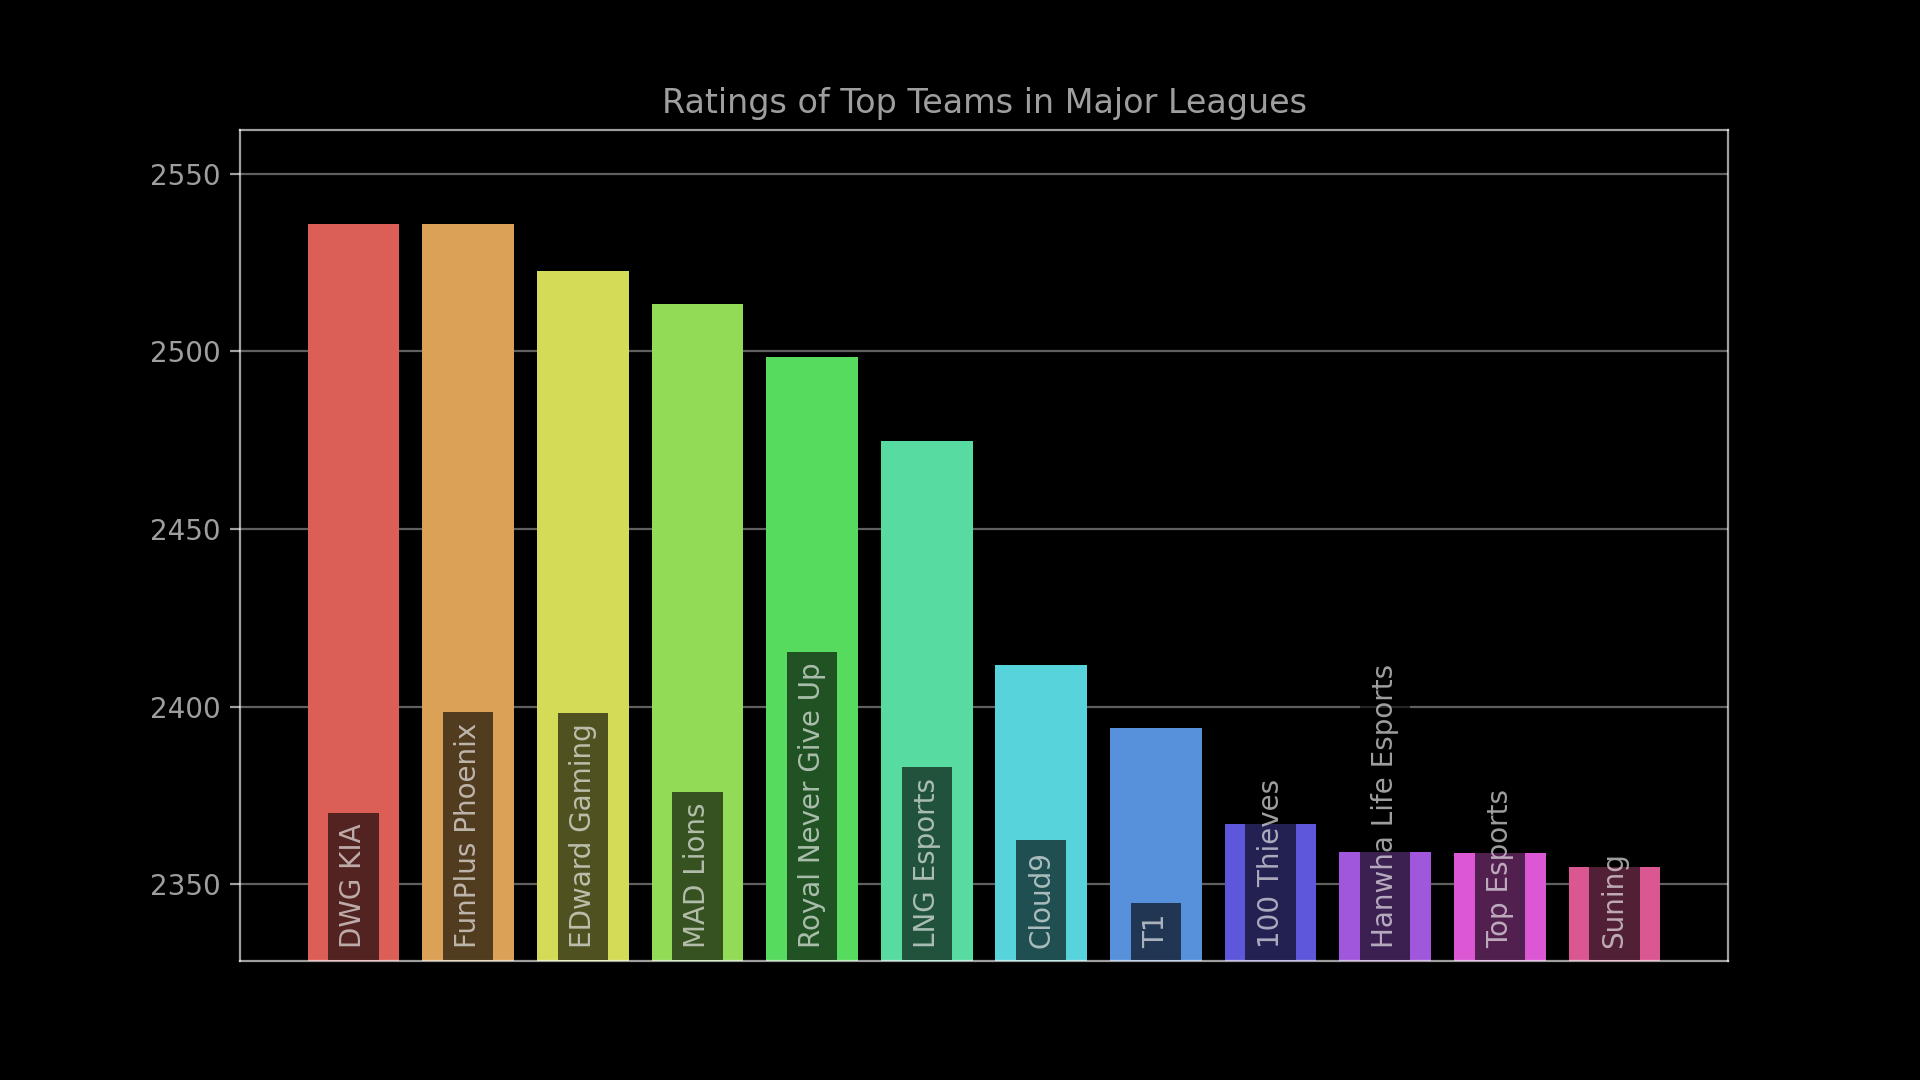
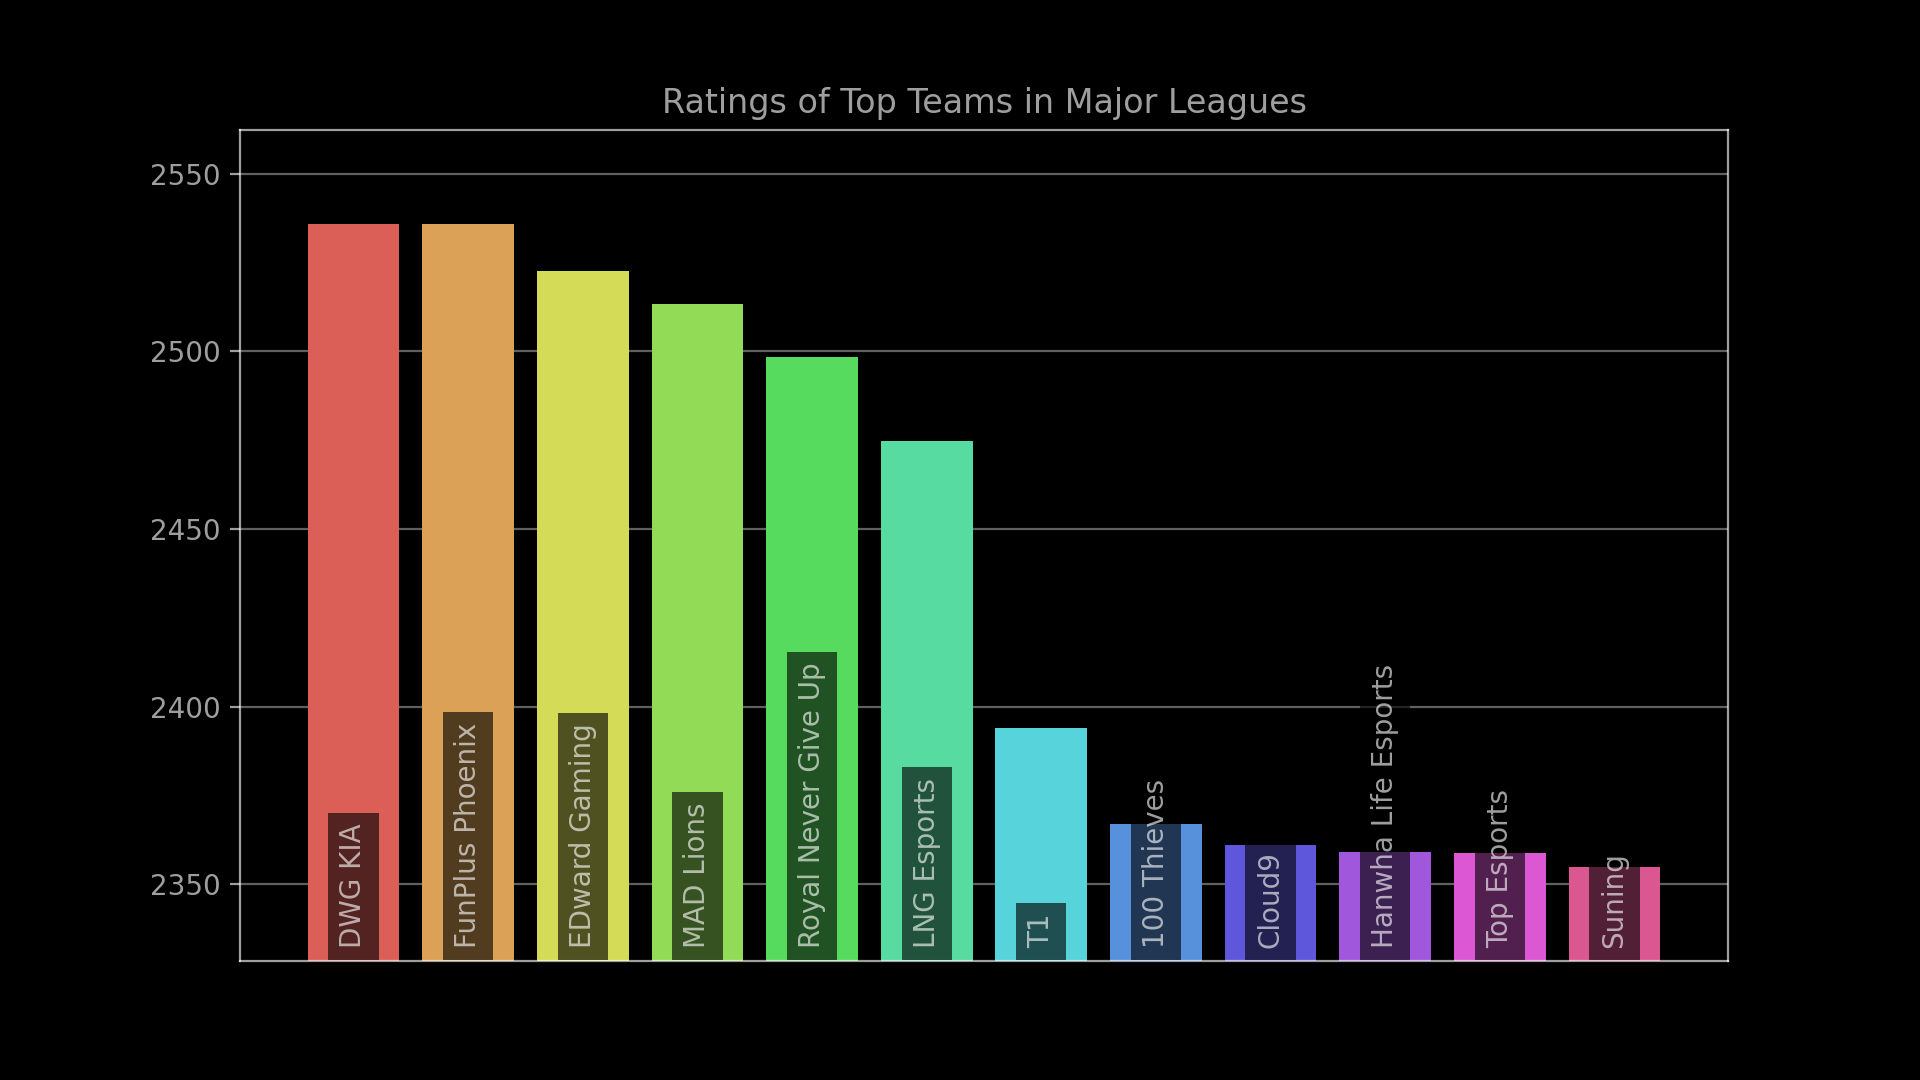
Update rating charts for 2021-10-07 15:00:00.

Changed region(s): [[0.5, 0.6111, 0.6875, 0.8861]]

diff --git a/index.html b/index.html
@@ -83,9 +83,9 @@
             <tr><td style="text-align: right">5</td><td class="name">PSG Talon</td><td class="league" style="text-align: center">PCS</td><td class="rating" style="text-align: center">2503.3</td><td class="diff" style="text-align: center; white-space: nowrap"></td></tr>
             <tr><td style="text-align: right">6</td><td class="name">Royal Never Give Up</td><td class="league" style="text-align: center">LPL</td><td class="rating" style="text-align: center">2498.4</td><td class="diff" style="text-align: center; white-space: nowrap"></td></tr>
             <tr><td style="text-align: right">7</td><td class="name">LNG Esports</td><td class="league" style="text-align: center">LPL</td><td class="rating" style="text-align: center">2474.7</td><td class="diff" style="text-align: center; white-space: nowrap"><span style="color: #4CAF50">&plus;46.9</span></td></tr>
-            <tr><td style="text-align: right">8</td><td class="name">Cloud9</td><td class="league" style="text-align: center">LCS</td><td class="rating" style="text-align: center">2411.7</td><td class="diff" style="text-align: center; white-space: nowrap"><span style="color: #4CAF50">&plus;76.5</span></td></tr>
-            <tr><td style="text-align: right">9</td><td class="name">T1</td><td class="league" style="text-align: center">LCK</td><td class="rating" style="text-align: center">2394.1</td><td class="diff" style="text-align: center; white-space: nowrap"></td></tr>
-            <tr><td style="text-align: right">10</td><td class="name">100 Thieves</td><td class="league" style="text-align: center">LCS</td><td class="rating" style="text-align: center">2367.1</td><td class="diff" style="text-align: center; white-space: nowrap"></td></tr>
+            <tr><td style="text-align: right">8</td><td class="name">T1</td><td class="league" style="text-align: center">LCK</td><td class="rating" style="text-align: center">2394.1</td><td class="diff" style="text-align: center; white-space: nowrap"></td></tr>
+            <tr><td style="text-align: right">9</td><td class="name">100 Thieves</td><td class="league" style="text-align: center">LCS</td><td class="rating" style="text-align: center">2367.1</td><td class="diff" style="text-align: center; white-space: nowrap"></td></tr>
+            <tr><td style="text-align: right">10</td><td class="name">Cloud9</td><td class="league" style="text-align: center">LCS</td><td class="rating" style="text-align: center">2361.2</td><td class="diff" style="text-align: center; white-space: nowrap"><span style="color: #4CAF50">&plus;26.1</span></td></tr>
             <tr><td style="text-align: right">11</td><td class="name">Hanwha Life Esports</td><td class="league" style="text-align: center">LCK</td><td class="rating" style="text-align: center">2359.1</td><td class="diff" style="text-align: center; white-space: nowrap"><span style="color: #4CAF50">&plus;43.8</span></td></tr>
             <tr><td style="text-align: right">12</td><td class="name">Top Esports</td><td class="league" style="text-align: center">LPL</td><td class="rating" style="text-align: center">2358.8</td><td class="diff" style="text-align: center; white-space: nowrap"></td></tr>
             <tr><td style="text-align: right">13</td><td class="name">Suning</td><td class="league" style="text-align: center">LPL</td><td class="rating" style="text-align: center">2354.8</td><td class="diff" style="text-align: center; white-space: nowrap"></td></tr>
@@ -110,14 +110,14 @@
             <tr><td style="text-align: right">32</td><td class="name">JD Gaming</td><td class="league" style="text-align: center">LPL</td><td class="rating" style="text-align: center">2247.3</td><td class="diff" style="text-align: center; white-space: nowrap"></td></tr>
             <tr><td style="text-align: right">33</td><td class="name">KT Rolster</td><td class="league" style="text-align: center">LCK</td><td class="rating" style="text-align: center">2247.1</td><td class="diff" style="text-align: center; white-space: nowrap"></td></tr>
             <tr><td style="text-align: right">34</td><td class="name">PEACE </td><td class="league" style="text-align: center">LCO</td><td class="rating" style="text-align: center">2246.9</td><td class="diff" style="text-align: center; white-space: nowrap"><span style="color: #4CAF50">&plus;9.4</span></td></tr>
-            <tr><td style="text-align: right">35</td><td class="name">Oh My God</td><td class="league" style="text-align: center">LPL</td><td class="rating" style="text-align: center">2224.9</td><td class="diff" style="text-align: center; white-space: nowrap"></td></tr>
-            <tr><td style="text-align: right">36</td><td class="name">Pentanet.GG</td><td class="league" style="text-align: center">LCO</td><td class="rating" style="text-align: center">2224.4</td><td class="diff" style="text-align: center; white-space: nowrap"></td></tr>
-            <tr><td style="text-align: right">37</td><td class="name">Invictus Gaming</td><td class="league" style="text-align: center">LPL</td><td class="rating" style="text-align: center">2213.1</td><td class="diff" style="text-align: center; white-space: nowrap"></td></tr>
-            <tr><td style="text-align: right">38</td><td class="name">Fredit BRION</td><td class="league" style="text-align: center">LCK</td><td class="rating" style="text-align: center">2212.9</td><td class="diff" style="text-align: center; white-space: nowrap"></td></tr>
-            <tr><td style="text-align: right">39</td><td class="name">LGD Gaming</td><td class="league" style="text-align: center">LPL</td><td class="rating" style="text-align: center">2200.2</td><td class="diff" style="text-align: center; white-space: nowrap"></td></tr>
-            <tr><td style="text-align: right">40</td><td class="name">Rogue Warriors</td><td class="league" style="text-align: center">LPL</td><td class="rating" style="text-align: center">2192.4</td><td class="diff" style="text-align: center; white-space: nowrap"></td></tr>
-            <tr><td style="text-align: right">41</td><td class="name">One Breath Gaming</td><td class="league" style="text-align: center">LCL</td><td class="rating" style="text-align: center">2191.8</td><td class="diff" style="text-align: center; white-space: nowrap"></td></tr>
-            <tr><td style="text-align: right">42</td><td class="name">Unicorns Of Love.CIS</td><td class="league" style="text-align: center">LCL</td><td class="rating" style="text-align: center">2191.8</td><td class="diff" style="text-align: center; white-space: nowrap"><span style="color: #F44336">&minus;83.2</span></td></tr>
+            <tr><td style="text-align: right">35</td><td class="name">Unicorns Of Love.CIS</td><td class="league" style="text-align: center">LCL</td><td class="rating" style="text-align: center">2244.2</td><td class="diff" style="text-align: center; white-space: nowrap"><span style="color: #F44336">&minus;30.8</span></td></tr>
+            <tr><td style="text-align: right">36</td><td class="name">Oh My God</td><td class="league" style="text-align: center">LPL</td><td class="rating" style="text-align: center">2224.9</td><td class="diff" style="text-align: center; white-space: nowrap"></td></tr>
+            <tr><td style="text-align: right">37</td><td class="name">Pentanet.GG</td><td class="league" style="text-align: center">LCO</td><td class="rating" style="text-align: center">2224.4</td><td class="diff" style="text-align: center; white-space: nowrap"></td></tr>
+            <tr><td style="text-align: right">38</td><td class="name">Invictus Gaming</td><td class="league" style="text-align: center">LPL</td><td class="rating" style="text-align: center">2213.1</td><td class="diff" style="text-align: center; white-space: nowrap"></td></tr>
+            <tr><td style="text-align: right">39</td><td class="name">Fredit BRION</td><td class="league" style="text-align: center">LCK</td><td class="rating" style="text-align: center">2212.9</td><td class="diff" style="text-align: center; white-space: nowrap"></td></tr>
+            <tr><td style="text-align: right">40</td><td class="name">LGD Gaming</td><td class="league" style="text-align: center">LPL</td><td class="rating" style="text-align: center">2200.2</td><td class="diff" style="text-align: center; white-space: nowrap"></td></tr>
+            <tr><td style="text-align: right">41</td><td class="name">Rogue Warriors</td><td class="league" style="text-align: center">LPL</td><td class="rating" style="text-align: center">2192.4</td><td class="diff" style="text-align: center; white-space: nowrap"></td></tr>
+            <tr><td style="text-align: right">42</td><td class="name">One Breath Gaming</td><td class="league" style="text-align: center">LCL</td><td class="rating" style="text-align: center">2191.8</td><td class="diff" style="text-align: center; white-space: nowrap"></td></tr>
             <tr><td style="text-align: right">43</td><td class="name">Immortals</td><td class="league" style="text-align: center">LCS</td><td class="rating" style="text-align: center">2185.8</td><td class="diff" style="text-align: center; white-space: nowrap"></td></tr>
             <tr><td style="text-align: right">44</td><td class="name">Team Vitality</td><td class="league" style="text-align: center">LEC</td><td class="rating" style="text-align: center">2170.4</td><td class="diff" style="text-align: center; white-space: nowrap"></td></tr>
             <tr><td style="text-align: right">45</td><td class="name">paiN Gaming</td><td class="league" style="text-align: center">CBLOL</td><td class="rating" style="text-align: center">2157.6</td><td class="diff" style="text-align: center; white-space: nowrap"></td></tr>

diff --git a/assets/js/chart-config.js b/assets/js/chart-config.js
@@ -3,10 +3,10 @@ const MONTH_ABBREVIATIONS = ["Jan", "Feb", "Mar", "Apr", "May", "Jun", "Jul", "A
 const topChartConfig = {
     type: "bar",
     data: {
-        labels: ['DWG KIA', 'FunPlus Phoenix', 'EDward Gaming', 'MAD Lions', 'Royal Never Give Up', 'LNG Esports', 'Cloud9', 'T1', '100 Thieves', 'Hanwha Life Esports', 'Top Esports', 'Suning'],
+        labels: ['DWG KIA', 'FunPlus Phoenix', 'EDward Gaming', 'MAD Lions', 'Royal Never Give Up', 'LNG Esports', 'T1', '100 Thieves', 'Cloud9', 'Hanwha Life Esports', 'Top Esports', 'Suning'],
         datasets: [{
             backgroundColor: ['#dc5f57', '#dca157', '#d4dc57', '#91dc57', '#57dc5f', '#57dca1', '#57d4dc', '#5791dc', '#5f57dc', '#a157dc', '#dc57d4', '#dc5791'],
-            data: [2535.913091706714, 2535.666297660901, 2522.634474588147, 2513.3692126537712, 2498.3555569730647, 2474.6783422093486, 2411.658439674858, 2394.075777242202, 2367.1068217865895, 2359.1074321443766, 2358.8275642289427, 2354.8123246379455],
+            data: [2535.913091706714, 2535.666297660901, 2522.634474588147, 2513.3692126537712, 2498.3555569730647, 2474.6783422093486, 2394.075777242202, 2367.1068217865895, 2361.1711730637517, 2359.1074321443766, 2358.8275642289427, 2354.8123246379455],
             label: "Rating Points"
         }]
     },

diff --git a/README.md b/README.md
@@ -51,9 +51,9 @@ confidence interval of the rating.
 | 4 | MAD Lions | 2513.4 | 78.1 |
 | 5 | Royal Never Give Up | 2498.4 | 78.8 |
 | 6 | LNG Esports | 2474.7 | 76.8 |
-| 7 | Cloud9 | 2411.7 | 79.6 |
-| 8 | T1 | 2394.1 | 65.9 |
-| 9 | 100 Thieves | 2367.1 | 68.7 |
+| 7 | T1 | 2394.1 | 65.9 |
+| 8 | 100 Thieves | 2367.1 | 68.7 |
+| 9 | Cloud9 | 2361.2 | 77.3 |
 | 10 | Hanwha Life Esports | 2359.1 | 76.3 |
 | 11 | Top Esports | 2358.8 | 71.2 |
 | 12 | Suning | 2354.8 | 69.8 |
